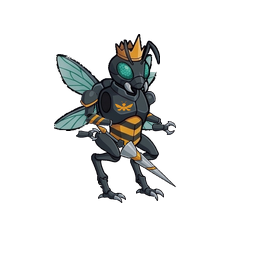
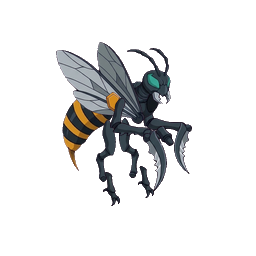
R6 G4 군체 벌레 비평 재작화 1개체(boss-t1) 반영

Changed region(s): [[0.1875, 0.125, 0.75, 0.8125]]

diff --git a/asset-source/r6/monsters/insect/STATUS.md b/asset-source/r6/monsters/insect/STATUS.md
@@ -38,3 +38,8 @@
 ## 남은 목록
 
 - 없음 (20/20 완료).
+
+## G4 비평 검수 재작화 (`docs/renewal/r6/review/G4-monsters-critique.md` 11항)
+
+- `boss-t1/T1` (비평 11항): 빈약한 왕관 인간형 벌을 폐기하고 설정표 원안의 횡폭이 넓은 비행형 거대 장갑 여왕말벌(4매 무광 날개 `armor`·앰버 줄무늬 대형 복부 `body`·큰턱/틸 겹눈 `head`·톱니 낫 앞다리·이족 13슬롯)로 재작화 (`cut_parts` `issues=0` · 13/13 슬롯, 모의 `fit_parts` IoU `0.729`, 32px 보스-일반 최대 IoU `0.483`, 지형/길 대비 `1.787/1.665`, 흰색·마젠타 잔여 `0/0`).
+- `docs/renewal/r6/bible/sheets/monsters-insect-parts-all.webp` 갱신 완료.
